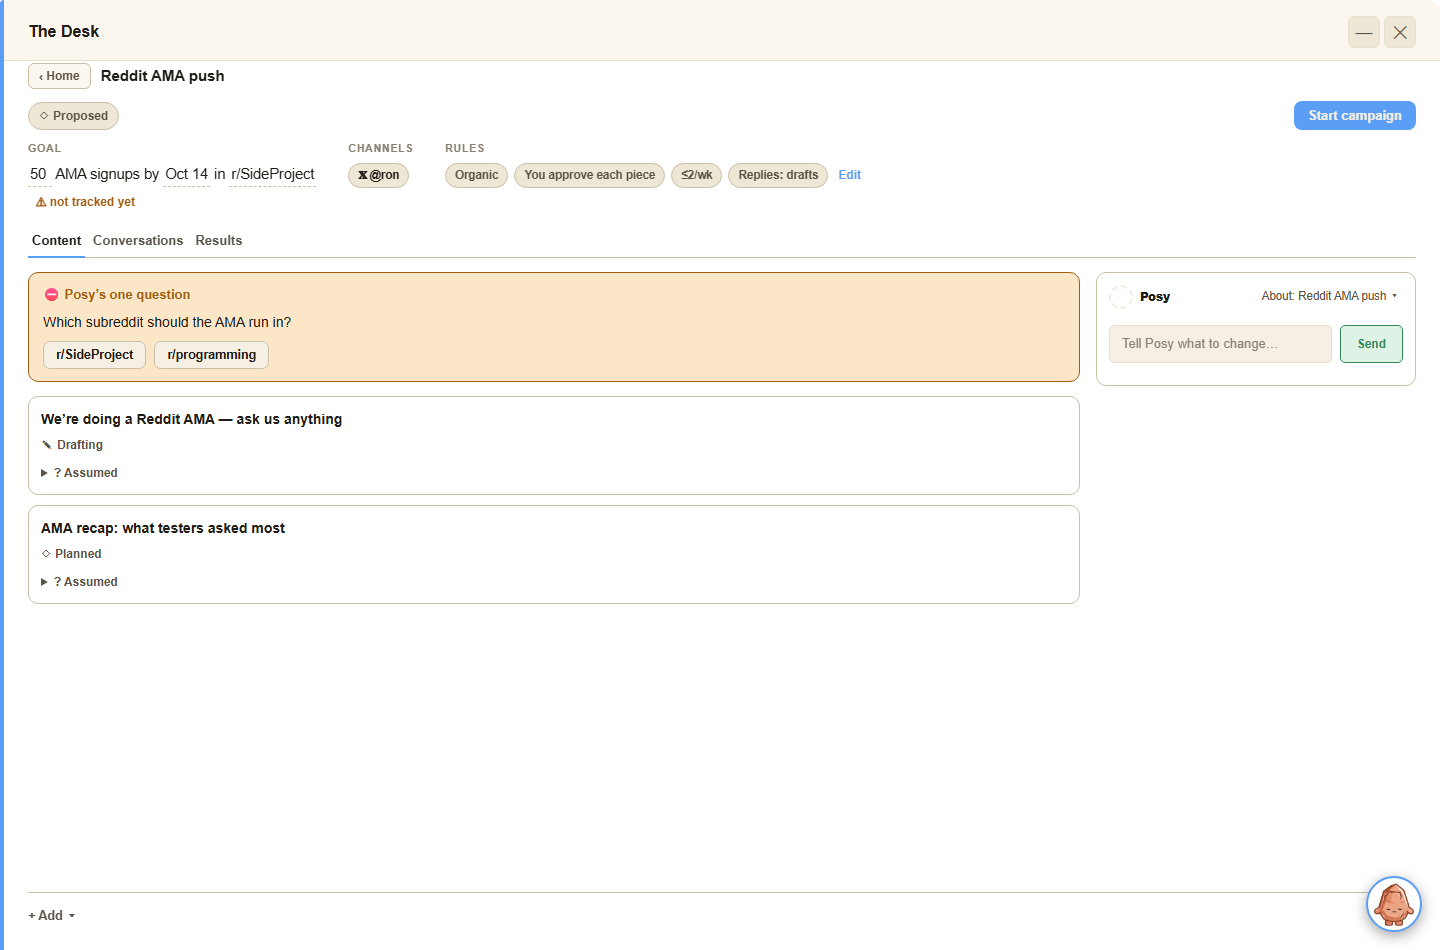
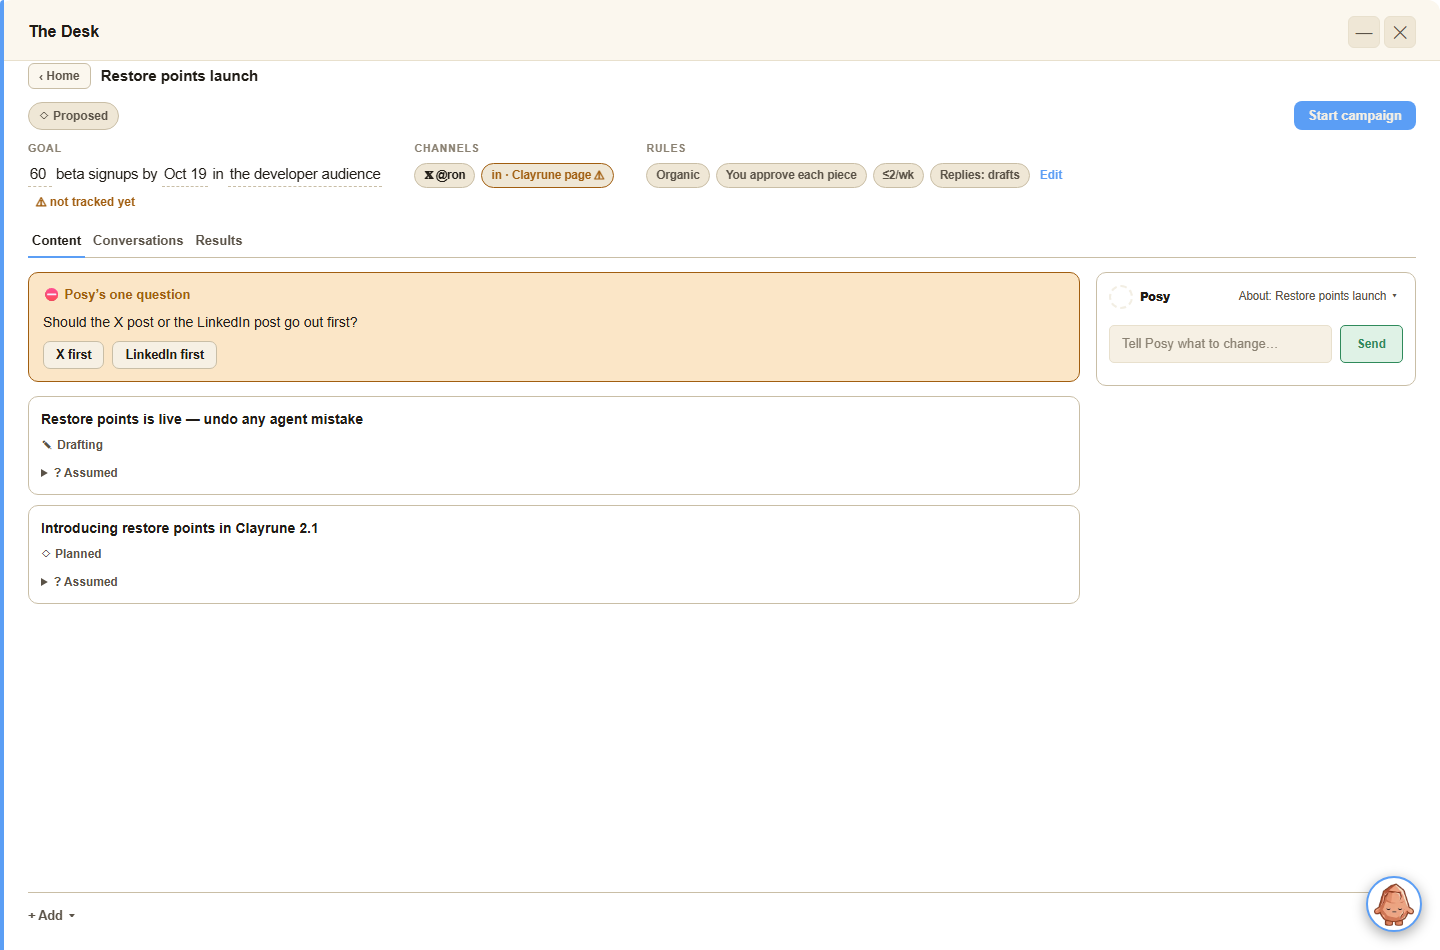
Desk v1 T2b: fix rules deep-link crumb, add per-job budget cap (MC-977, Dave's review pass 2)
deskV1RenderRules used deskV1Nav('campaign', ...) to bounce back to the
campaign page under the rules popover, which PUSHED a new campaign entry
on top of the still-present 'rules' (and, on the video page's "Raise
budget..." deep link, 'video') stack entries instead of landing on the
one already below them. Back then read '‹ Rules' instead of the real
previous page. Added deskV1PopTo(route) to shell.js (pops until the
stack's top entry matches, or only root remains) and switched
deskV1RenderRules to use it.

Added the §8 popover's other budget field, a per-job production cap
(RENDER_BUDGET.perJobLimit), alongside the existing per-period limit;
same setPending/Apply confirm-on-widen flow.

Rewrote camp-2 from a placeholder "Reddit AMA push" (Reddit is deferred
per the standing platform-voice position) to "Restore points launch" on
ch-x-ron + ch-li-page, matching the shipped X=Ron/LinkedIn=Clayrune-page
voice split; the §8 channels-excluded worked example now uses the
naturally-unattached ch-blog instead of ch-li-page. Fixed the resulting
desk-v1-home.mjs A13 held-count assertion (2->3): camp-2's new ch-li-page
piece is real load on that globally-disconnected channel, not a stale
number.

Smoke: desk-v1-rules (crumb regression + per-job budget cases added),
desk-v1-home (held-count fix) both green. desk-v1-harness's pre-existing
conflict (T0a's generic per-route contract vs T2b's popover) is
unchanged and still out of scope.

diff --git a/static/js/desk-v1-fixtures.js b/static/js/desk-v1-fixtures.js
@@ -107,8 +107,13 @@
 
   // The render job + budget (MED-04/06): rate, spend, and the period limit
   // the T5 render card's "maximum" and "Raise budget…" disable read from.
+  // `perJobLimit` is the §8 rules popover's OTHER cap ("Production budget:
+  // per job and per period") — a ceiling on any single render's own
+  // "Maximum" (desk-v1-video.js's `estimate * 2`), separate from `limit`'s
+  // rolling per-period total. T5 doesn't read it (out of that ticket's
+  // scope); it exists so §8 has a real per-job number to show and edit.
   const RENDER_BUDGET = {
-    period: 'month', currency: 'USD', rate: 0.40, spent: 16, limit: 150,
+    period: 'month', currency: 'USD', rate: 0.40, spent: 16, limit: 150, perJobLimit: 20,
   };
 
   // Results with deliberate delayed/n/a gaps (MET-01: never a fake 0; MET-02:
@@ -484,43 +489,51 @@
   // (docs/desk_v1_r0_plan.md; THE_DESK_V1_UI.md §3.5, §8). New rows only
   // (ground rule 3) — camp-1 and its channels/families above are untouched.
   //
+  // Dave's review pass 2 replaced the original Reddit fixture: v1 is X +
+  // LinkedIn only (Reddit deferred — position_whichidentityandwhichplatform
+  // sthedesksocialworks), and the split is by VOICE, not just platform: X
+  // carries Ron's own first-person builder voice (`ch-x-ron`), LinkedIn
+  // carries the Clayrune company page's own distinct voice (`ch-li-page`).
+  // Ron's personal LinkedIn is never a Desk destination.
+  //
   // §8's worked example is "in · Ron (personal) excluded" — an included/
   // excluded row needs a channel that exists but isn't on the campaign's
-  // channelIds. Adding a 4th global channel for this broke
-  // desk-v1-campaign.mjs's Add-tray "channel shelf" check, which assumes
-  // every existing channel is already attached to camp-1 (T0a's own
-  // invariant). Fixed by using camp-2 below instead: its channelIds is only
-  // ['ch-x-ron'], so the two pre-existing channels it doesn't hold
-  // (ch-li-page, ch-blog) are naturally "excluded" for it — no new channel,
-  // no touching camp-1's shelf count.
+  // channelIds. camp-2 below uses 2 of the 3 pre-existing global channels
+  // (ch-x-ron, ch-li-page), leaving the 3rd (ch-blog) naturally "excluded"
+  // for it — no new channel, no touching camp-1's Add-tray shelf count
+  // (camp-1 already holds all 3, T0a's own invariant).
 
   // A second campaign, in Proposed state, so §3.5 has something real to
   // render (camp-1 is Active and stays that way — T2a/T3/T4 fixtures already
   // depend on it). `goal.tracked: false` deliberately demonstrates CMP-03's
-  // "untracked goal is a warning, not a blocker".
+  // "untracked goal is a warning, not a blocker". Reuses the restore-points
+  // feature (fam-restore-points, T0a) as its subject rather than inventing a
+  // new product surface (ground rule 3's own precedent).
   CAMPAIGNS.push({
     id: 'camp-2',
-    name: 'Reddit AMA push',
+    name: 'Restore points launch',
     state: 'proposed', // proposed | active | paused | completed | archived | draft
     goal: {
-      metric: 'AMA signups', target: 50, current: 0,
-      deadline: '2026-10-15', audience: 'r/SideProject', tracked: false,
+      metric: 'beta signups', target: 60, current: 0,
+      deadline: '2026-10-20', audience: 'the developer audience', tracked: false,
     },
-    channelIds: ['ch-x-ron'],
+    channelIds: ['ch-x-ron', 'ch-li-page'],
     rules: {
       reviewMode: 'each_piece', frequencyPerWeek: 2,
       repliesMode: 'drafts', paid: false,
     },
   });
 
-  // Posy's proposed pieces (§3.5: "planned or drafting") for camp-2.
+  // Posy's proposed pieces (§3.5: "planned or drafting") for camp-2 — one
+  // per voice, so the campaign's two channels each have their own piece
+  // rather than sharing a version.
   FAMILIES.push(
-    { id: 'fam-reddit-announce', campaignId: 'camp-2', kind: 'post',
-      title: 'We’re doing a Reddit AMA — ask us anything',
-      versions: [{ id: 'v-reddit-announce-x', channelId: 'ch-x-ron', state: 'drafting', revision: 0 }] },
-    { id: 'fam-reddit-recap', campaignId: 'camp-2', kind: 'post',
-      title: 'AMA recap: what testers asked most',
-      versions: [{ id: 'v-reddit-recap-x', channelId: 'ch-x-ron', state: 'planned', revision: 0 }] },
+    { id: 'fam-launch-x', campaignId: 'camp-2', kind: 'post',
+      title: 'Restore points is live — undo any agent mistake',
+      versions: [{ id: 'v-launch-x', channelId: 'ch-x-ron', state: 'drafting', revision: 0 }] },
+    { id: 'fam-launch-li', campaignId: 'camp-2', kind: 'post',
+      title: 'Introducing restore points in Clayrune 2.1',
+      versions: [{ id: 'v-launch-li', channelId: 'ch-li-page', state: 'planned', revision: 0 }] },
   );
 
   // Proposed-state detail, keyed by campaignId (same "own key, own section"
@@ -530,33 +543,35 @@
       // The goal sentence's editable parts (§3.5: "dashed underlines on the
       // editable parts: target, date, audience"). `metric` is fixed prose,
       // not one of the three dashed slots.
-      goalSentence: { target: 50, metric: 'AMA signups', date: '2026-10-15', audience: 'r/SideProject' },
-      // "Only a real blocker gets a card... ⛔ Posy's one question" (CMP-03).
+      goalSentence: { target: 60, metric: 'beta signups', date: '2026-10-20', audience: 'the developer audience' },
+      // "Only a real blocker gets a card... ⛔ Posy's one question" (CMP-03)
+      // — a real sequencing call between the two voices, not something Posy
+      // can decide alone.
       blocker: {
-        id: 'blocker-subreddit',
-        question: 'Which subreddit should the AMA run in?',
+        id: 'blocker-sequence',
+        question: 'Should the X post or the LinkedIn post go out first?',
         answers: [
-          { id: 'a-sideproject', label: 'r/SideProject' },
-          { id: 'a-programming', label: 'r/programming' },
+          { id: 'a-x-first', label: 'X first' },
+          { id: 'a-li-first', label: 'LinkedIn first' },
         ],
       },
       // "? Assumed" popovers, keyed by familyId — shown on the relevant card.
       assumptions: {
-        'fam-reddit-announce': 'Assumed this posts from @ron, not a separate AMA account.',
-        'fam-reddit-recap': 'Assumed the recap goes out the day after the AMA ends.',
+        'fam-launch-x': 'Assumed this posts from @ron in first person, not the Clayrune page.',
+        'fam-launch-li': 'Assumed the Clayrune page post uses its own voice, distinct from Ron’s.',
       },
       // The Start-sheet's authority list (CMP-05: "accounts, frequency
       // ceiling, dates, review mode, replies, paid, generation limits, stop
       // conditions", in plain language).
       authority: {
-        accounts: ['𝕏 @ron'],
+        accounts: ['𝕏 @ron', 'in · Clayrune page'],
         frequencyPerWeek: 2,
-        dates: 'Now through Oct 15, 2026',
+        dates: 'Now through Oct 20, 2026',
         reviewMode: 'You approve each piece',
         replies: 'Drafts for review',
         paid: 'Off',
         generationLimits: 'No video generation planned for this campaign',
-        stopConditions: 'Pause automatically once the goal is reached or Oct 15 passes',
+        stopConditions: 'Pause automatically once the goal is reached or Oct 20 passes',
       },
     },
   };

diff --git a/static/js/desk-v1-rules.js b/static/js/desk-v1-rules.js
@@ -353,6 +353,7 @@
       </div>
       <div class="desk-v1-rules-group">
         <div class="desk-v1-rules-group-title">Production budget</div>
+        <div class="desk-v1-rules-inlinerow">${esc(currency)}<input type="number" min="0" class="desk-v1-rules-numinput" data-budget-perjob-input value="${esc(budget.perJobLimit != null ? budget.perJobLimit : 0)}"> per job</div>
         <div class="desk-v1-rules-inlinerow">${esc(currency)}<input type="number" min="0" class="desk-v1-rules-numinput" data-budget-input value="${esc(budget.limit != null ? budget.limit : 0)}"> per ${esc(budget.period || 'month')}</div>
         <div class="desk-v1-rules-hint">${esc(currency)}${esc(budget.spent != null ? budget.spent : 0)} spent so far this ${esc(budget.period || 'month')}.</div>
       </div>
@@ -463,6 +464,14 @@
       if (next === prev) return;
       setPending(() => { budget.limit = next; }, `Video budget set to ${currency}${next} per ${budget.period || 'month'} — was ${currency}${prev}.`, next > prev, () => { budgetInput.value = String(prev); });
     });
+
+    const budgetPerJobInput = bodyEl.querySelector('[data-budget-perjob-input]');
+    if (budgetPerJobInput) budgetPerJobInput.addEventListener('change', () => {
+      const prev = budget.perJobLimit || 0;
+      const next = parseFloat(budgetPerJobInput.value) || 0;
+      if (next === prev) return;
+      setPending(() => { budget.perJobLimit = next; }, `Per-job render cap set to ${currency}${next} — was ${currency}${prev}.`, next > prev, () => { budgetPerJobInput.value = String(prev); });
+    });
   }
 
   // Kept exported only so desk-v1-shell.js's pre-existing ROUTES['rules']
@@ -470,8 +479,16 @@
   // {campaignId})` "Raise budget…" deep link still resolve to something —
   // neither ever paints a page under a `‹ <campaign>` breadcrumb now: this
   // bounces straight back to the campaign page and opens the real popover.
+  //
+  // `deskV1PopTo('campaign')`, not `deskV1Nav('campaign', ...)` (Dave's
+  // review pass 2): Nav PUSHES a new campaign entry on top of the 'rules'
+  // entry this function is already rendering as, so the back button read
+  // the stack's new second-to-last entry — 'rules' — as '‹ Rules' instead
+  // of the real previous page. PopTo pops 'rules' (and 'video', when the
+  // deep link came from T5) off the stack instead, landing back on the
+  // campaign entry already underneath it.
   window.deskV1RenderRules = function (el, params) {
-    if (typeof window.deskV1Nav === 'function') window.deskV1Nav('campaign', { campaignId: params.campaignId });
+    if (typeof window.deskV1PopTo === 'function') window.deskV1PopTo('campaign');
     window.deskV1OpenRulesPopover(params.campaignId);
   };
 

diff --git a/static/js/desk-v1-shell.js b/static/js/desk-v1-shell.js
@@ -96,6 +96,19 @@
     _renderCrumb(_stack[_stack.length - 1]);
   }
 
+  // Pops the stack until the top entry's route is `route` (or only the root
+  // remains), then renders once. For a deep-link route whose OWN render
+  // function immediately bounces back to an ancestor page (T2b's `rules`:
+  // it never paints anything under its own breadcrumb, see
+  // deskV1RenderRules) — a plain deskV1Nav there would PUSH the ancestor on
+  // top of the deep-link entry instead of landing on the one already below
+  // it, so Back read '‹ Rules' instead of the real previous page (MC-977
+  // Dave review pass 2, T2b popover from T5's "Raise budget…" link).
+  function deskV1PopTo(route) {
+    while (_stack.length > 1 && _stack[_stack.length - 1].route !== route) _stack.pop();
+    deskV1Render();
+  }
+
   function deskV1Render() {
     if (!_stack.length) _stack.push({ route: 'home', params: {} });
     const entry = _stack[_stack.length - 1];
@@ -194,4 +207,5 @@
   window.deskV1Back = deskV1Back;
   window.deskV1Render = deskV1Render;
   window.deskV1PatchParams = deskV1PatchParams;
+  window.deskV1PopTo = deskV1PopTo;
 })();
